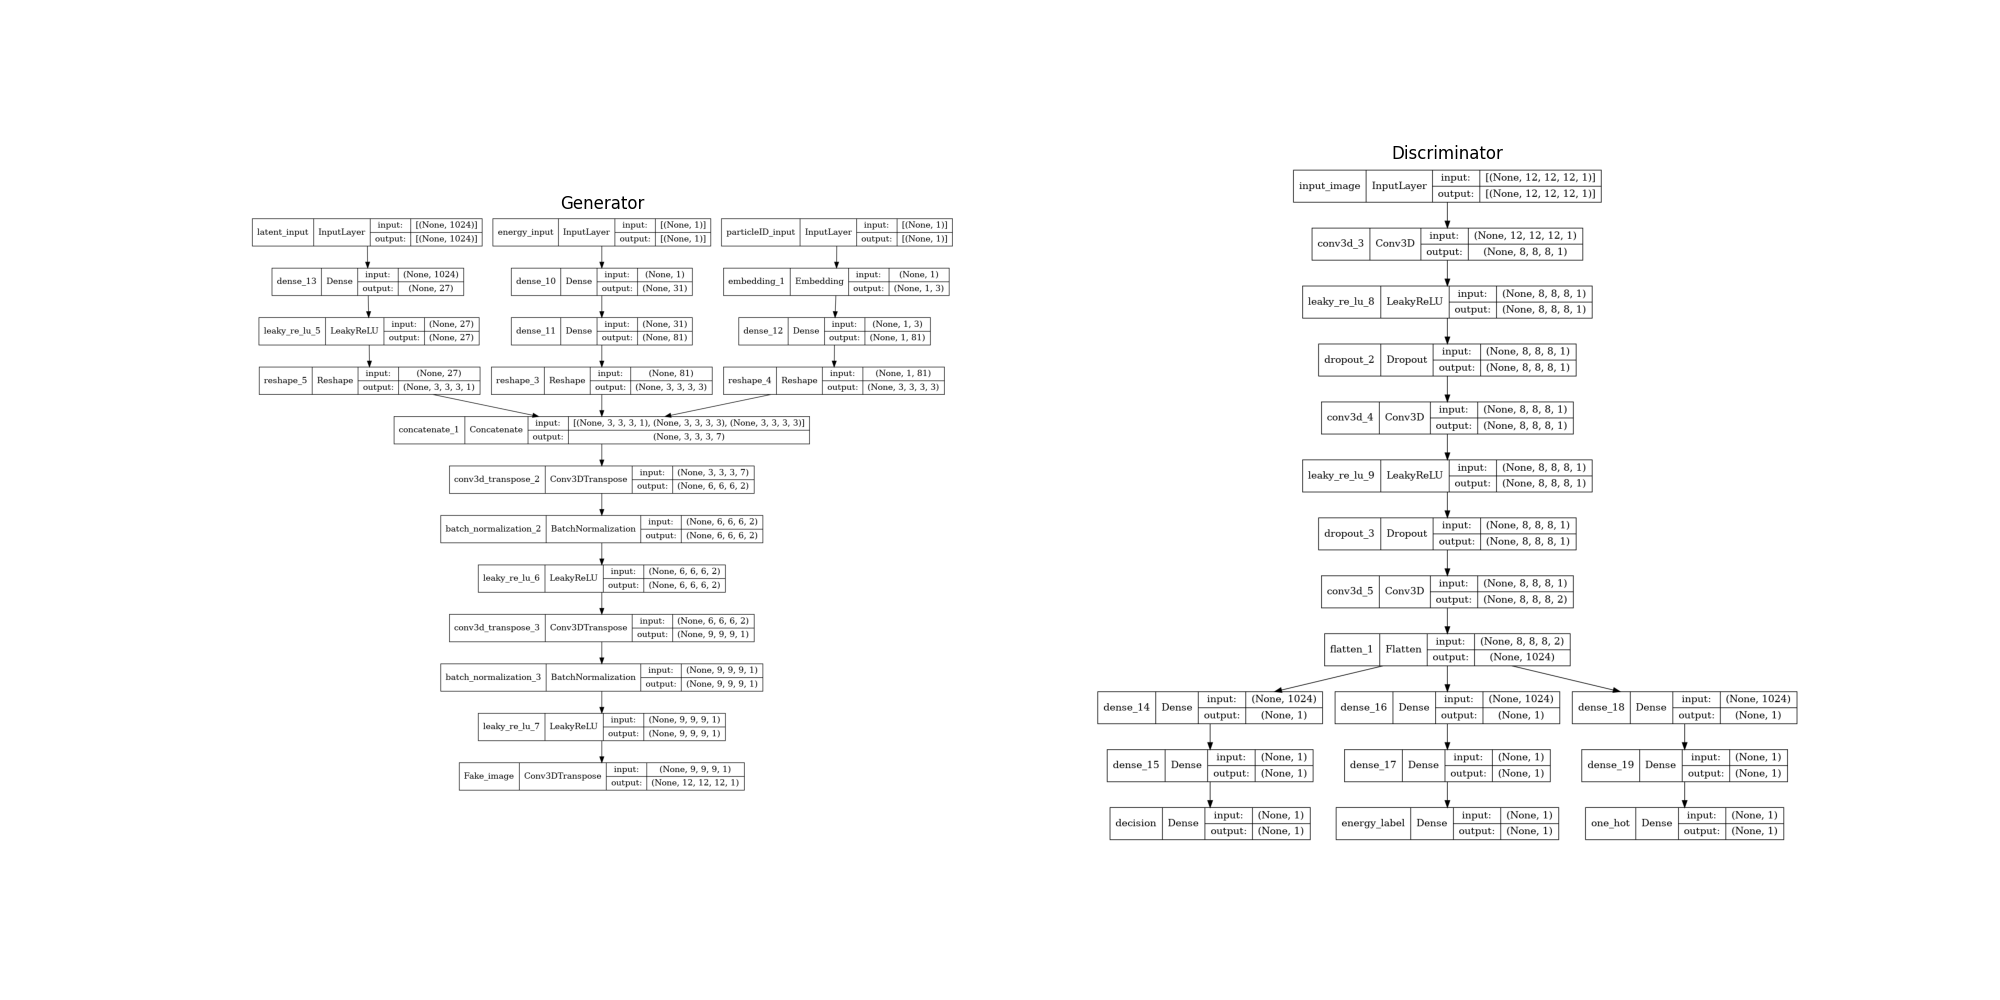
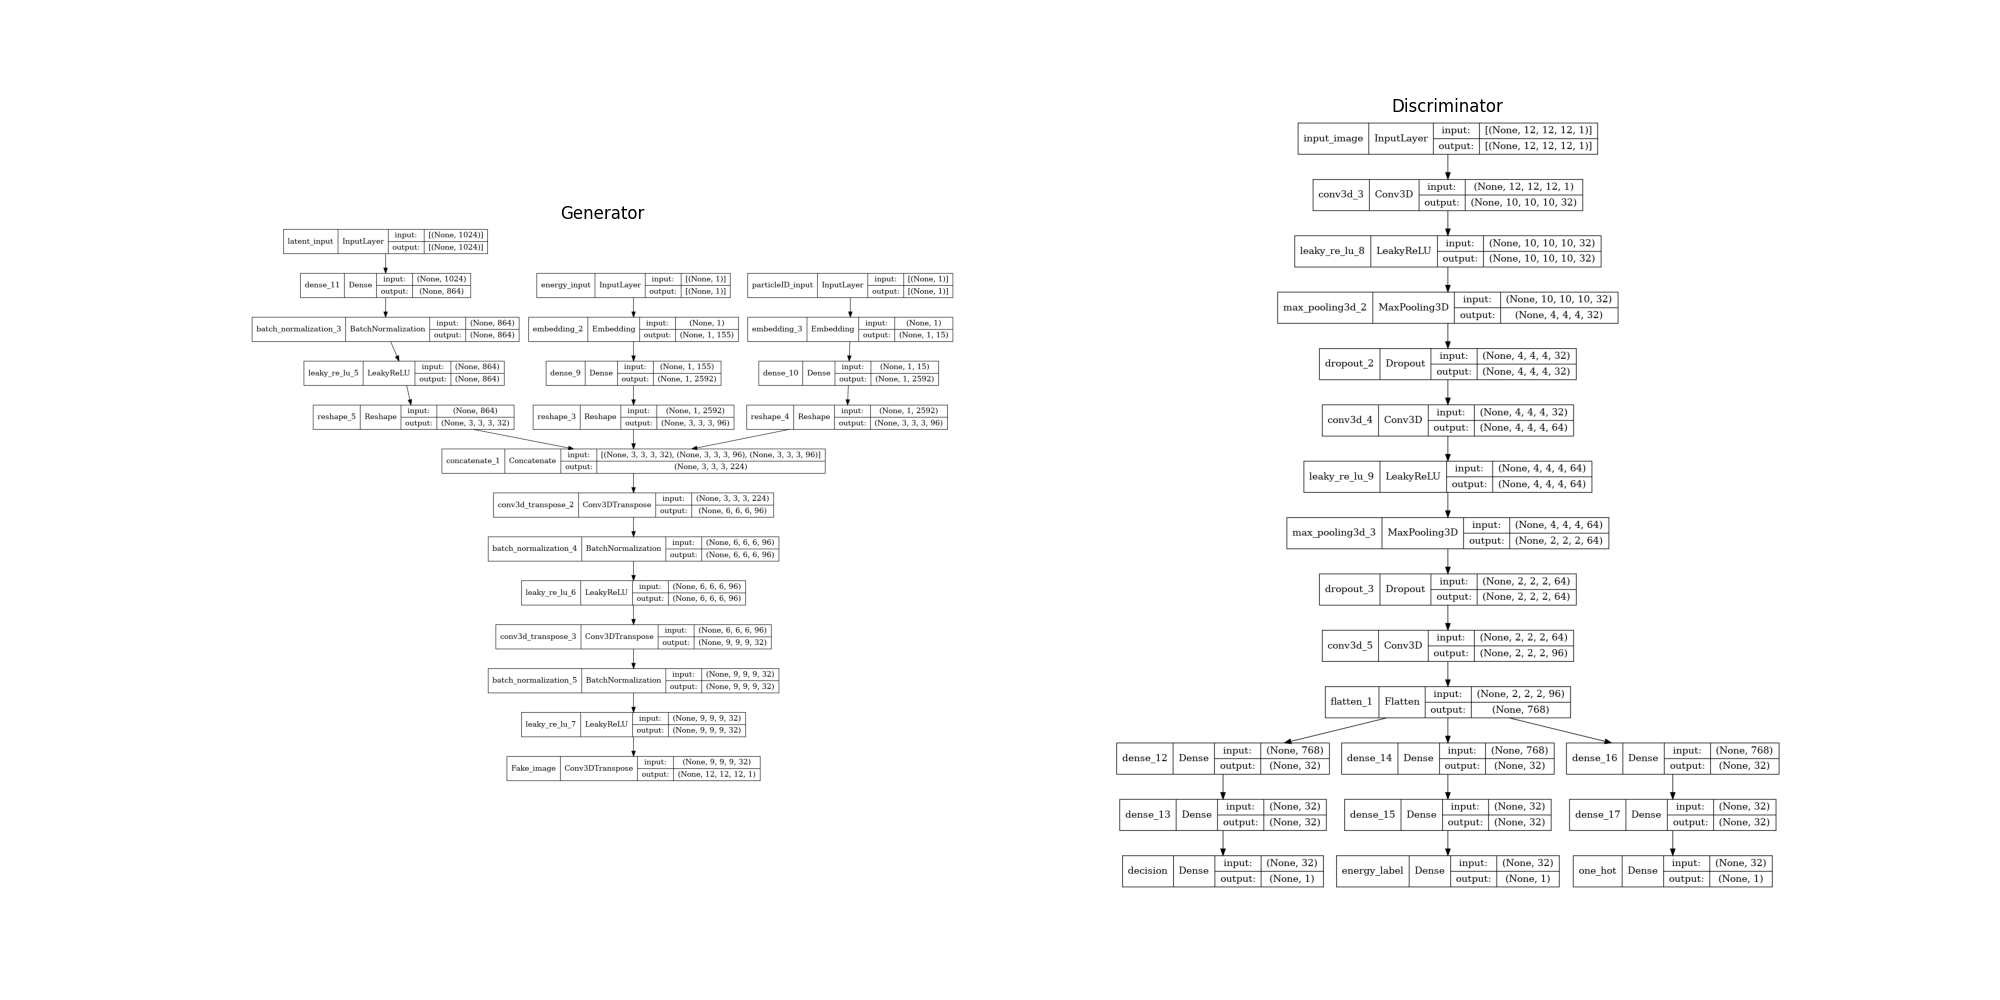
Added MaxPooling3D layers in discriminator as an attempt to make it work

Changed region(s): [[0.558, 0.093, 0.899, 0.899], [0.124, 0.186, 0.496, 0.806]]

diff --git a/EM_shower_simulator/make_models_D.py b/EM_shower_simulator/make_models_D.py
@@ -201,9 +201,9 @@ def make_discriminator_model():
     layer that creates a sort of lookup-table (vector[EMBED_DIM] of floats) that
     categorizes the labels in N_CLASSES * classes.
     """
-    N_FILTER = 16
-    KERNEL = (2, 2, 2)
-
+    N_FILTER = 32
+    KERNEL = (3, 3, 3)
+    KERNEL_1 = (2,2, 2)
     # padding="same" add a 0 to borders, "valid" use only available data !
     # Output of convolution = (input + 2padding - kernel) / strides + 1 !
     # Here we use padding default = "valid" (=0 above) and strides = 1 !
@@ -226,15 +226,16 @@ def make_discriminator_model():
     discr = MaxPooling3D(pool_size = KERNEL, padding ="same")(discr)
     discr = Dropout(0.3)(discr)
 
-    discr = Conv3D(N_FILTER, KERNEL, padding="same", use_bias=False)(discr)
+    discr = Conv3D(2*N_FILTER, KERNEL, padding="same", use_bias=False)(discr)
     logger.info(discr.get_shape())
     discr = LeakyReLU()(discr)
+    discr = MaxPooling3D(pool_size = KERNEL, padding ="same")(discr)
     discr = Dropout(0.3)(discr)
 
-    minibatch = Lambda(minibatch_stddev_layer, name="minibatch")(discr)
+    # minibatch = Lambda(minibatch_stddev_layer, name="minibatch")(discr)
     # logger.info(f"Minibatch shape: {minibatch.get_shape()}")
 
-    discr = Conv3D(2*N_FILTER, KERNEL, padding="same", use_bias=False)(discr)
+    discr = Conv3D(3*N_FILTER, KERNEL_1, padding="same", use_bias=False)(discr)
     logger.info(discr.get_shape())
     discr = Flatten()(discr)
 

diff --git a/EM_shower_simulator/debug.py b/EM_shower_simulator/debug.py
@@ -15,8 +15,8 @@ from class_GAN import logger as logGAN
 
 # Debug import
 from dataset import debug_data_pull, debug_shower
-from make_models import debug_generator, debug_discriminator
-from make_models import make_generator_model, make_discriminator_model
+from make_models_D import debug_generator, debug_discriminator
+from make_models_D import make_generator_model, make_discriminator_model
 from class_GAN import test_noise, ConditionalGAN, compute_energy
 
 # Creation of the default dataset path
@@ -132,7 +132,7 @@ if __name__=="__main__":
     cond_gan.plot_model()
     logger.info("The cGAN model has been plotted correctly.")
 
-    debug_cgan(cond_gan)
+    #debug_cgan(cond_gan)
 
     logger.info("The work is done.")
     logger.handlers.clear()

diff --git a/EM_shower_simulator/class_GAN.py b/EM_shower_simulator/class_GAN.py
@@ -245,6 +245,7 @@ class ConditionalGAN(tf.keras.Model):
         discriminator learning rate depending on which is doing better. The
         comparison is made looking at the losses stored in logs.
         """
+        # !!!!!!!!!!!!!! ATTENZIONE : PROBABILMENTE DA ELIMINARE  !!!!!!!!!!!!!!
         if (epoch == wake_up):
            learning_rate_pro = self.generator_optimizer.lr * 6.
            if (logs["gener_loss"] > logs["discr_loss"]):
